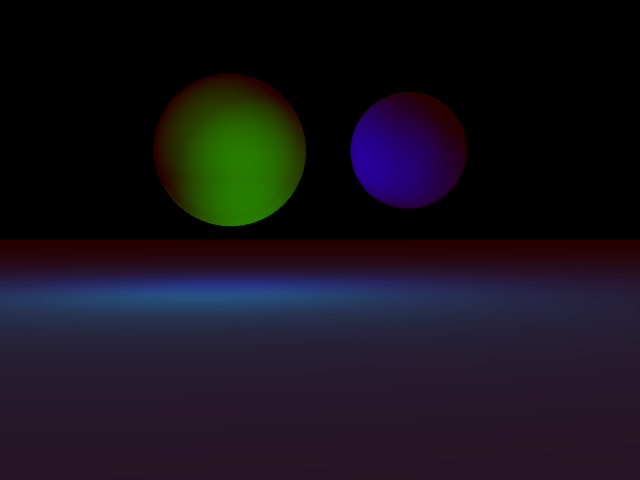
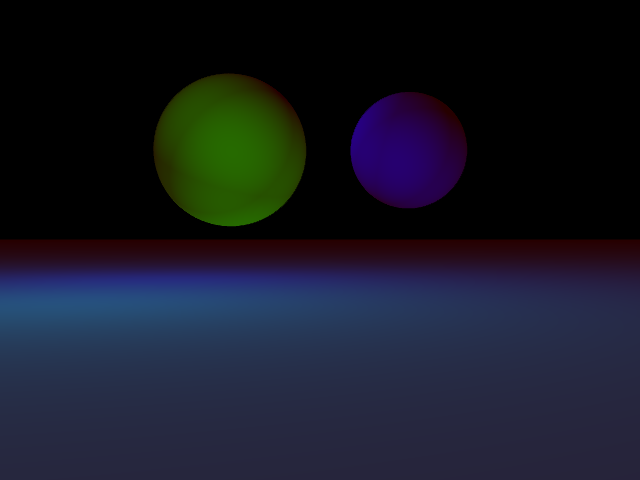
Modified pic

diff --git a/raytracer/include/scenes/Scene_MultiObject.h b/raytracer/include/scenes/Scene_MultiObject.h
@@ -12,18 +12,18 @@ tracerPtr = new MultiObjects(this);
 Ambient* ambient_light = new Ambient();
 this->ambient_ptr = ambient_light;
 PointLight* light = new PointLight();
-light->SetLocation(glm::vec3(100.f, 100.f, 100.f));
+light->SetLocation(glm::vec3(200.f, 200.f, 200.f));
 this->AddLight(light);
 light = new PointLight();
-light->SetLocation(glm::vec3(-100.f, -100.f, -100.f));
+light->SetLocation(glm::vec3(-200.f, -200.f, -200.f));
 light->SetColor(RGBColor(glm::vec3(0.f, 0.f, 1.f)));
 this->AddLight(light);
 light = new PointLight();
-light->SetLocation(glm::vec3(-100.f, -100.f, 100.f));
+light->SetLocation(glm::vec3(-200.f, -200.f, 200.f));
 light->SetColor(RGBColor(glm::vec3(0.f, 1.f, 1.f)));
 this->AddLight(light);
 light = new PointLight();
-light->SetLocation(glm::vec3(-100.f, 100.f, -100.f));
+light->SetLocation(glm::vec3(-200.f, 200.f, -200.f));
 light->SetColor(RGBColor(glm::vec3(0.f, 1.f, 0.f)));
 this->AddLight(light);
 
